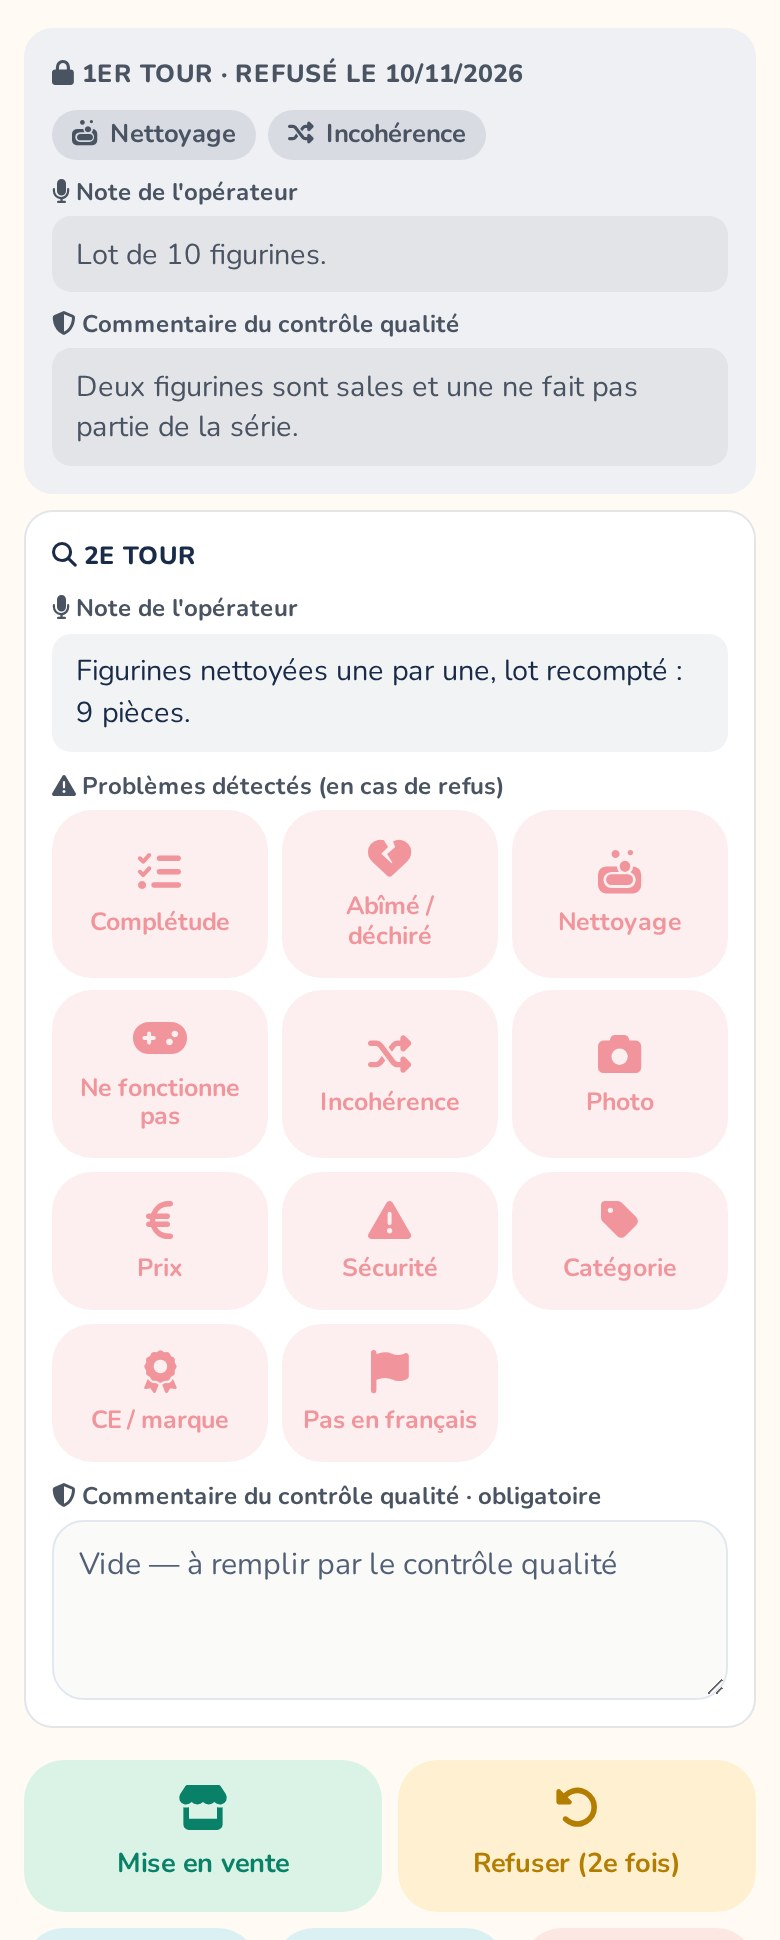
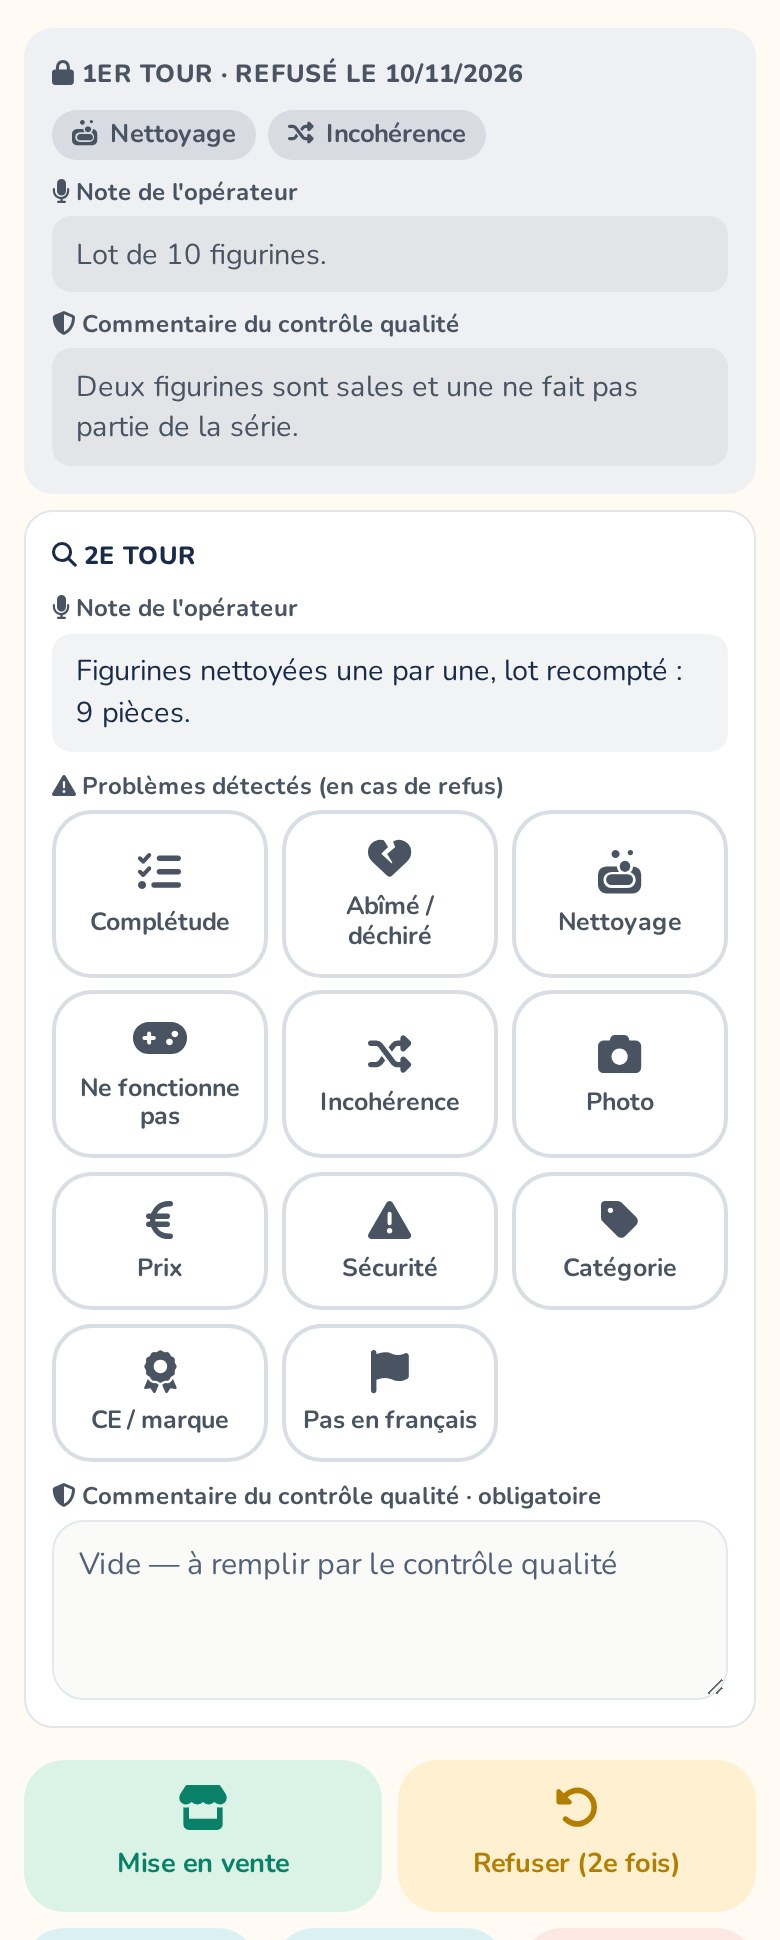
Contrôle qualité : causes liées aux critères, codes couleur, bouton Confier distinct
Six causes de refus recoupent un critère du jouet : cocher la cause décoche le
critère, à l'écran et à l'enregistrement, pour que la carte dise la même chose
que le refus. Couleurs : vert et rouge pâle réservés aux critères, cause non
cochée grise, cochée par le CQ orange, raison d'écarter rouge, destination
marine. Le bloc « Confier » n'apparaît plus pendant qu'un admin crée son propre
jouet et son bouton est libellé (il se confondait avec « enregistrer »).
Procédures et captures mises à jour.

Claude-Session: https://claude.ai/code/session_01Ntw61KqSiSRAouwbz7PgoR

diff --git a/app/assets/stylesheets/components/_cards.scss b/app/assets/stylesheets/components/_cards.scss
@@ -967,13 +967,20 @@ a.toy-card {
     i { font-size: 1.35rem; }
   }
 
-  // Une cause cochée est un problème : orange, pas le vert des critères respectés.
-  .condition-toggle-input:checked + .cause-chip {
-    background: rgba($coral, 0.16);
-    color: $coral-text;
-    border-color: $coral;
+  // Codes couleur (décidés avec Enjoué le 16/11/2026) : vert et rouge pâle sont
+  // réservés aux six critères du jouet. Une cause non cochée est neutre, grise.
+  .cause-chip {
+    background: $white; color: #4A5361; border-color: #D9DDE4;
+    &:hover { border-color: $navy; }
   }
+  .condition-toggle-input:checked + .cause-chip { font-weight: 800; }
 }
+// Cause cochée par le contrôle : orange, la couleur du « CQ refusé ».
+.cause-chips--cq .condition-toggle-input:checked + .cause-chip { background: #F97316; border-color: #F97316; color: $navy; }
+// Raison d'écarter cochée par l'opérateur : rouge, le jouet sort du circuit.
+.cause-chips--discard .condition-toggle-input:checked + .cause-chip { background: darken($danger-red, 6%); border-color: darken($danger-red, 6%); color: $white; }
+// Simple choix (destination) : marine.
+.cause-chips--choice .condition-toggle-input:checked + .cause-chip { background: $navy; border-color: $navy; color: $white; }
 
 .cause-legend {
   margin-top: 0.5rem;
@@ -1042,6 +1049,9 @@ a.toy-card {
   font-weight: 700;
 }
 
+// Critère décoché à l'instant parce qu'une cause du contrôle vient d'être cochée.
+.condition-toggle-label.is-linked { outline: 3px solid #F97316; outline-offset: 2px; }
+
 .verify-btn.verify-btn-vrac,
 .verify-btn.verify-btn-don { background: rgba($sky, 0.2); color: darken($sky, 30%); }
 
@@ -1049,6 +1059,8 @@ a.toy-card {
   border-top: 1px dashed rgba($navy, 0.2);
   padding-top: 0.75rem;
 }
+.reassign-btn { background: $white; border: 2px solid $navy; color: $navy; font-weight: 800; white-space: nowrap; min-height: 44px;
+  &:hover, &:focus-visible { background: $navy; color: $white; } }
 .reassign-label { display: block; font-size: 0.85rem; font-weight: 700; color: $navy; margin-bottom: 0.35rem; }
 .reassign-note { font-size: 0.8rem; color: #5B6472; margin-top: 0.35rem; }
 

diff --git a/app/javascript/controllers/cause_criteria_controller.js b/app/javascript/controllers/cause_criteria_controller.js
@@ -1,0 +1,19 @@
+import { Controller } from "@hotwired/stimulus"
+
+// Écran de contrôle qualité : six causes de refus recoupent un des six critères
+// du jouet (Nettoyage ↔ Propre, Complétude ↔ Complet…). Cocher la cause décoche
+// tout de suite le critère, pour que l'admin voie la carte telle que l'opérateur
+// la retrouvera. Le serveur applique la même règle (QualityControl).
+export default class extends Controller {
+  sync(event) {
+    const cause = event.target
+    const criterion = this.element.querySelector(`input[type=checkbox][name="toy[${cause.dataset.criterion}]"]`)
+    if (!criterion || !cause.checked) return
+
+    criterion.checked = false
+    const label = this.element.querySelector(`label[for="${criterion.id}"]`)
+    if (!label) return
+    label.classList.add("is-linked")
+    setTimeout(() => label.classList.remove("is-linked"), 1500)
+  }
+}

diff --git a/app/models/quality_cause.rb b/app/models/quality_cause.rb
@@ -2,32 +2,38 @@
 # (tableur « Jouets à revaloriser » du client + critères historiques de l'appli
 # + consignes du TRI). Les clés sont stockées en base : ne pas les renommer.
 #
-# - CQ : problèmes détectés au contrôle qualité (refus → revalorisation).
+# - CQ : problèmes détectés au contrôle qualité (refus → revalorisation). Six
+#   d'entre elles recoupent un des six critères du jouet (`criterion`) : cocher la
+#   cause décoche le critère, pour que la carte du jouet dise la même chose que
+#   le refus (un jouet refusé pour « Nettoyage » ne reste pas affiché « Propre »).
 # - DISCARD : causes du jet à l'entrée de la VALO. `tri: true` = le TRI aurait dû
 #   écarter le jouet (affiche « Objets non acceptés au TRI ») : compte contre le
 #   Bon du 1er coup du TRI. `tri: false` = découvert à la VALO, le TRI ne le
 #   vérifie pas (complétude, propreté, langue…).
 class QualityCause
-  Cause = Struct.new(:key, :label, :icon, :help, :tri, keyword_init: true)
+  Cause = Struct.new(:key, :label, :icon, :help, :tri, :criterion, keyword_init: true)
 
   CQ = [
-    { key: "completude",  label: "Complétude",        icon: "fa-list-check",
+    { key: "completude",  criterion: :complete, label: "Complétude", icon: "fa-list-check",
       help: "Il manque des pièces, la règle ou un élément du jeu." },
-    { key: "abime",       label: "Abîmé / déchiré",   icon: "fa-heart-crack",          help: "Jouet ou boîte abîmé, déchiré, décollé." },
-    { key: "nettoyage",   label: "Nettoyage",         icon: "fa-soap",                 help: "Le jouet ou la boîte est encore sale." },
-    { key: "panne",       label: "Ne fonctionne pas", icon: "fa-gamepad",
+    { key: "abime",       label: "Abîmé / déchiré", icon: "fa-heart-crack", help: "Jouet ou boîte abîmé, déchiré, décollé." },
+    { key: "nettoyage",   criterion: :clean, label: "Nettoyage", icon: "fa-soap",
+      help: "Le jouet ou la boîte est encore sale." },
+    { key: "panne",       criterion: :playable, label: "Ne fonctionne pas", icon: "fa-gamepad",
       help: "Le jouet ne marche pas ou n'est pas jouable." },
     { key: "incoherence", label: "Incohérence",       icon: "fa-shuffle",
       help: "Le lot mélange des éléments qui ne vont pas ensemble." },
     { key: "photo",       label: "Photo",             icon: "fa-camera",
       help: "Photo absente, floue ou qui ne montre pas le jouet." },
     { key: "prix",        label: "Prix",              icon: "fa-euro-sign", help: "Le prix ne correspond pas au jouet." },
-    { key: "securite",    label: "Sécurité",          icon: "fa-triangle-exclamation",
+    { key: "securite",    criterion: :safe, label: "Sécurité", icon: "fa-triangle-exclamation",
       help: "Danger pour l'enfant : coupant, petites pièces, rouille." },
     { key: "categorie",   label: "Catégorie",         icon: "fa-tag",
       help: "Le jouet n'est pas dans la bonne catégorie." },
-    { key: "ce",          label: "CE / marque",       icon: "fa-award",                help: "Pas de marquage CE ni de marque connue." },
-    { key: "langue",      label: "Pas en français",   icon: "fa-flag",                 help: "Le jeu ou le livre n'est pas en français." }
+    { key: "ce",          criterion: :ce_mark, label: "CE / marque", icon: "fa-award",
+      help: "Pas de marquage CE ni de marque connue." },
+    { key: "langue",      criterion: :french, label: "Pas en français", icon: "fa-flag",
+      help: "Le jeu ou le livre n'est pas en français." }
   ].map { |attrs| Cause.new(**attrs) }.freeze
 
   DISCARD = [
@@ -63,6 +69,8 @@ class QualityCause
                       help: "Refus d'avant le suivi qualité, sans cause enregistrée.").freeze
 
   CQ_KEYS = CQ.map(&:key).freeze
+  # cause du CQ → critère du jouet à décocher
+  CRITERIA = CQ.select(&:criterion).to_h { |cause| [cause.key, cause.criterion] }.freeze
   DISCARD_KEYS = DISCARD.map(&:key).freeze
   TRI_KEYS = DISCARD.select(&:tri).map(&:key).freeze
 

diff --git a/test/integration/quality_flow_test.rb b/test/integration/quality_flow_test.rb
@@ -102,6 +102,22 @@ class QualityFlowTest < ActionDispatch::IntegrationTest
     assert_select "a.toy-card[href*='/toys/#{@toy.id}']"
   end
 
+  test "une cause liée à un critère le décoche, même si le contrôle l'avait laissé coché" do
+    @toy.update_columns(clean: true, complete: true, playable: true)
+    sign_in @admin
+    patch confirm_verify_toy_path(@toy),
+          params: { status: "review", quality: { causes: %w[nettoyage photo], comment: "Sale, photo floue" },
+                    toy: { clean: "1", complete: "1", playable: "1" } }
+    @toy.reload
+    assert @toy.review?
+    assert_not @toy.clean?, "refusé pour Nettoyage : le jouet ne doit plus être affiché Propre"
+    assert @toy.complete?
+    assert @toy.playable?
+    get verify_toy_path(@toy)
+    assert_select "input[name='quality[causes][]'][value=nettoyage][data-criterion=clean]"
+    assert_select "input[name='quality[causes][]'][value=photo][data-criterion]", count: 0
+  end
+
   test "2e tour validé avec commentaire" do
     sign_in @admin
     decide(@toy, "review", causes: %w[photo], comment: "Photo floue")
@@ -185,6 +201,20 @@ class QualityFlowTest < ActionDispatch::IntegrationTest
     # le valorisateur d'origine ne l'a plus dans sa liste « à reprendre »
     post user_session_path, params: { user: { email: @operator.email, password: "motdepasse" } }
     assert_redirected_to root_path
+  end
+
+  test "le bloc Confier n'apparaît pas pendant qu'un admin crée son propre jouet" do
+    sign_in @admin
+    get new_box_toy_path(create_box)
+    follow_redirect!
+    assert_select ".reassign-box", count: 0
+
+    # mais il apparaît sur le brouillon laissé par un opérateur absent, et sur un jouet enregistré
+    draft = create_toy(operator: @operator, status: "draft")
+    get edit_toy_path(draft, new: true)
+    assert_select ".reassign-box button", text: /Confier/
+    get toy_path(@toy)
+    assert_select ".reassign-box button", text: /Confier/
   end
 
   test "réattribution refusée à un opérateur" do

diff --git a/app/models/quality_control.rb b/app/models/quality_control.rb
@@ -47,7 +47,11 @@ class QualityControl
     Toy.transaction do
       @check = build_check(decision, current_round, causes, comment) if record
       toy.assign_attributes(attributes.merge(status: status))
-      toy.operator_note = nil if decision == "refused" # libère la note du tour suivant
+      if decision == "refused"
+        toy.operator_note = nil # libère la note du tour suivant
+        # Une cause qui recoupe un critère le décoche : la carte du jouet dit la même chose que le refus.
+        QualityCause::CRITERIA.slice(*Array(causes)).each_value { |criterion| toy[criterion] = false }
+      end
       saved = toy.valid? && (!record || @check.valid?)
       copy_check_errors if record
       if status == "market" && (toy.location.blank? || toy.location == Toy::WAITING_LOCATION)

diff --git a/CLAUDE.md b/CLAUDE.md
@@ -71,6 +71,7 @@ Vocabulaire du client : **TRI** = atelier qui remplit les caisses (le créateur 
 - **Destinations finales** : `market` (prêt), vendu (`sold`), `suppr` (rebut), **`vrac`** (pièces pour compléter d'autres jouets), **`don`**. Vrac/don/rebut sont décidables dès le 1er tour.
 - **Commentaire CQ obligatoire** à chaque refus et pour tout ce qui n'est pas une mise en vente au 1er tour (2e tour même validé, arbitrage, vrac, don, rebut). Un refus exige au moins une cause.
 - **Causes** : `QualityCause::CQ` (11 causes, unifiées entre le tableur du client et les anciens critères) et `QualityCause::DISCARD` (13 causes du « jeter directement », stockées dans `toys.discard_causes`). `tri: true` = le TRI aurait dû écarter le jouet (affiche « Objets non acceptés au TRI ») → compte contre le Bon du 1er coup du TRI ; `tri: false` (incomplet, sale, langue, panne non électronique) = le TRI ne le vérifie pas. Les clés sont en base : ne pas les renommer. Sélecteur à pictogrammes + légende dépliable : `shared/_cause_chips`.
+- **Trois listes à ne pas confondre** : les 6 *critères* du jouet (`french`, `ce_mark`, `safe`, `complete`, `playable`, `clean` — décrivent le jouet et alimentent le prix IA), les 11 causes de refus du CQ, les 13 raisons d'écarter. Six causes du CQ recoupent un critère (`QualityCause::CRITERIA`) : au refus, `QualityControl` décoche le critère (et le contrôleur Stimulus `cause-criteria` le fait à l'écran), pour que la carte du jouet dise la même chose que le refus. **Codes couleur** : vert / rouge pâle = critères seulement ; cause non cochée = grise ; cochée par le CQ = orange (couleur du « CQ refusé ») ; raison d'écarter cochée = rouge ; choix de destination = marine.
 - **Commentaires par tour** : les tours passés s'affichent grisés et en lecture seule (`toys/_quality_history`) ; au refus, `toy.operator_note` est vidé pour libérer la note du tour suivant. Une zone vide en lecture seule affiche « Aucun commentaire », un champ à remplir a un placeholder commençant par « Vide — ».
 - **Délais en jours ouvrés** (`WorkingDays`, lundi–vendredi, fériés ignorés). Bandeau « CQ refusé » orange, **rouge** au-delà de `QualitySetting.current.red_after_days` (3 par défaut) : `cq_banner`. Liste « À reprendre » (`/toys?filter=review`) triée du plus ancien refus au plus récent (FIFO) ; un opérateur qui se connecte avec des CQ refusés à sa charge y arrive directement (`after_sign_in_path_for`).
 - **Responsable d'un jouet** : `toys.operator_id` = valorisateur (créateur), à qui la non-conformité est comptée ; `toys.assignee_id` = personne à qui un admin a **confié** le jouet (opérateur absent, `PATCH /toys/:id/reassign`, admins seulement) — elle y a alors accès (`ToyPolicy#involved?`) et le voit dans « À reprendre » (`Toy.held_by`).
